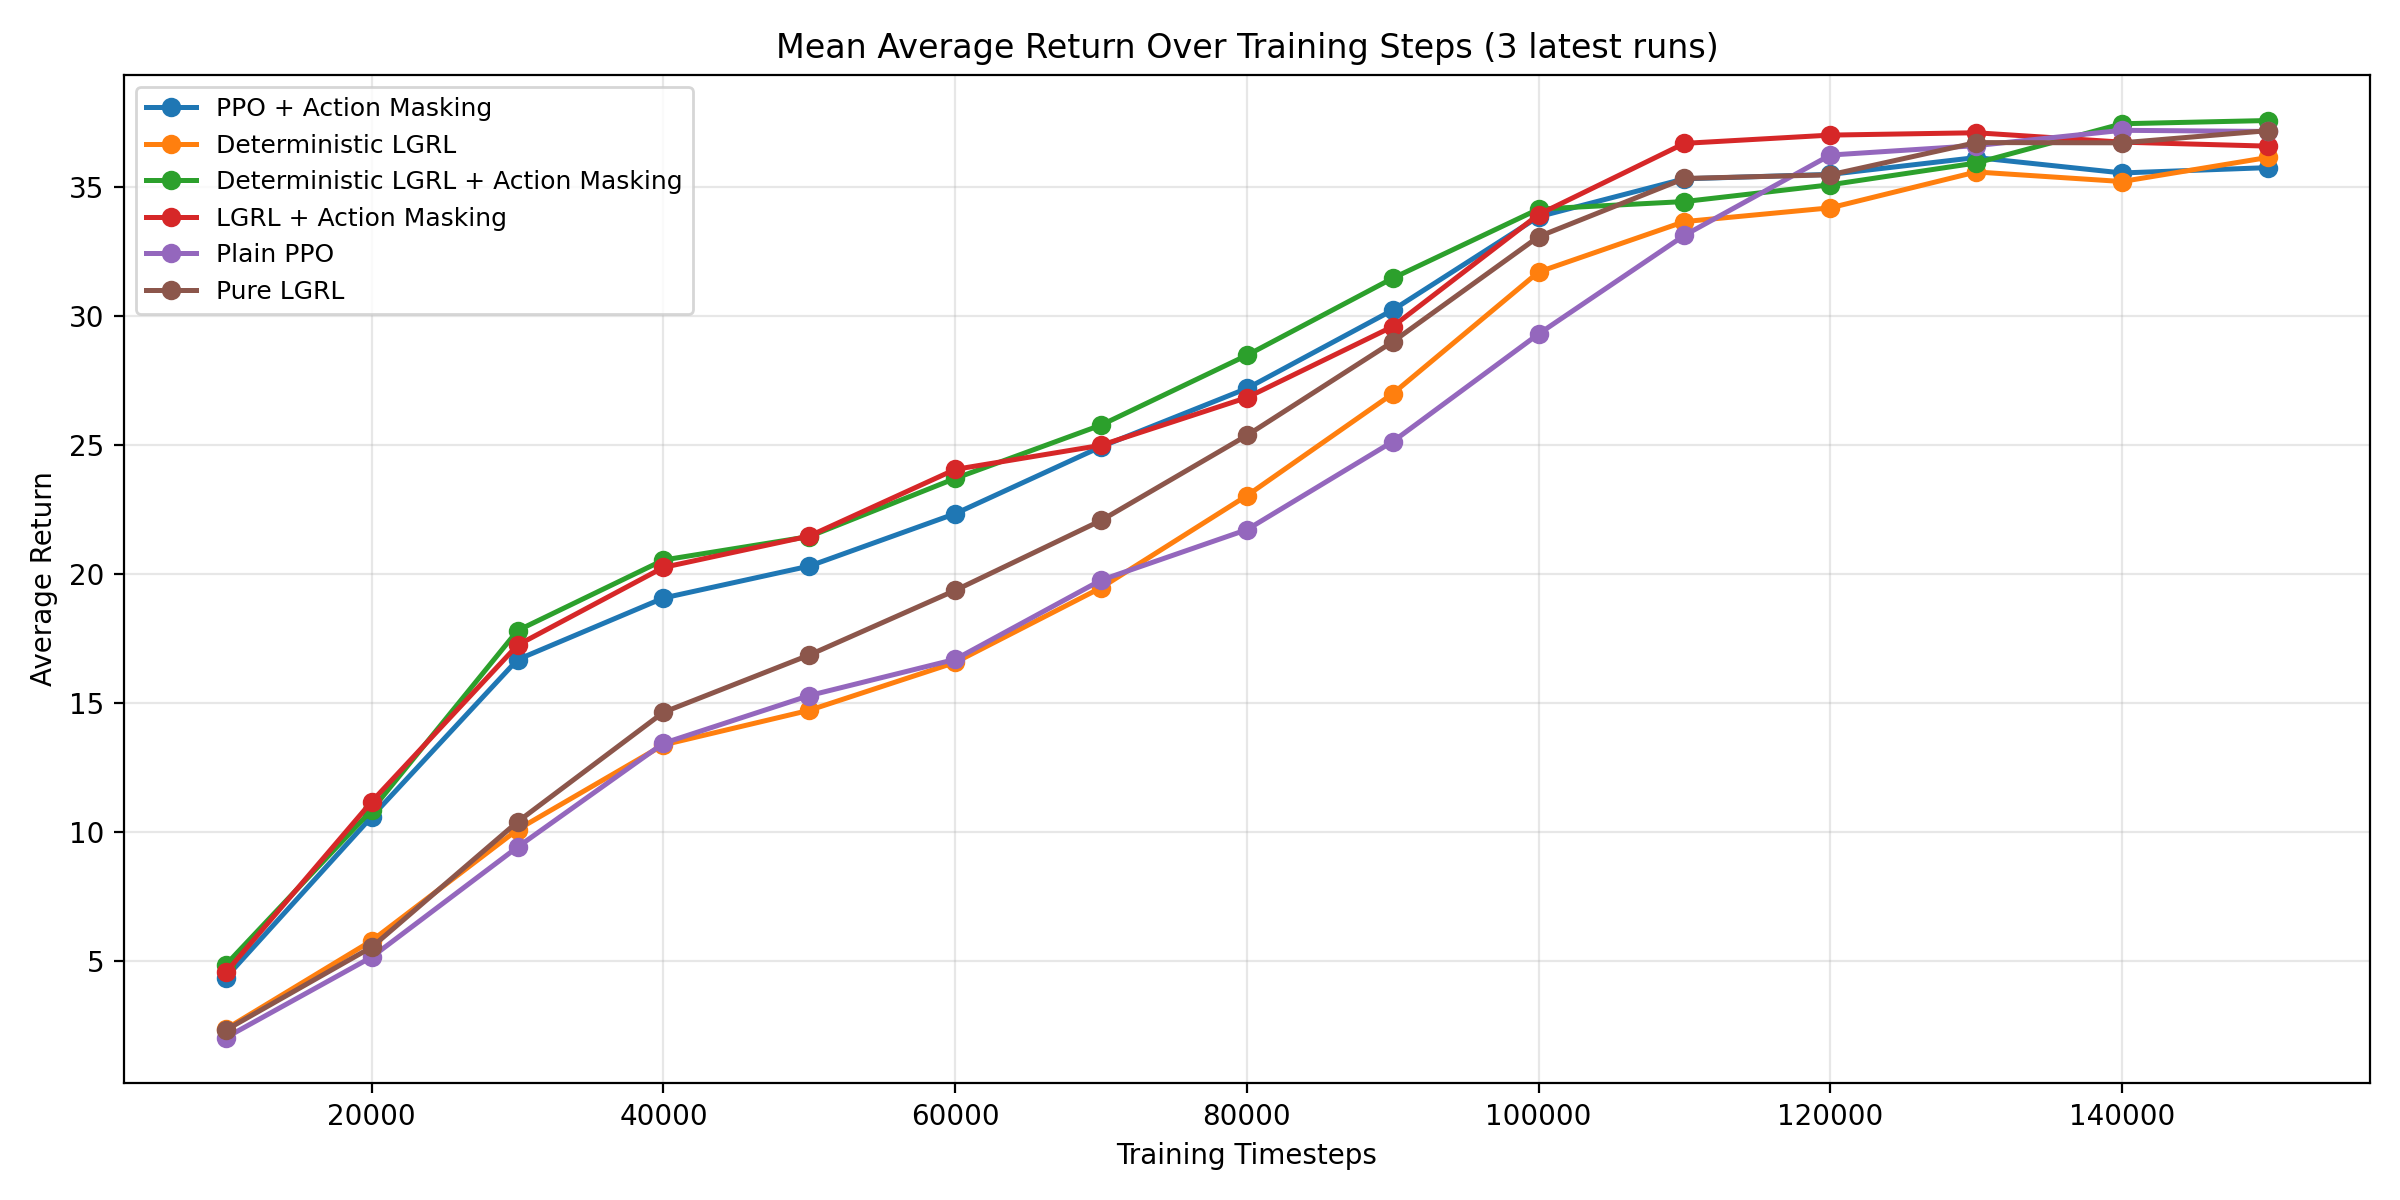
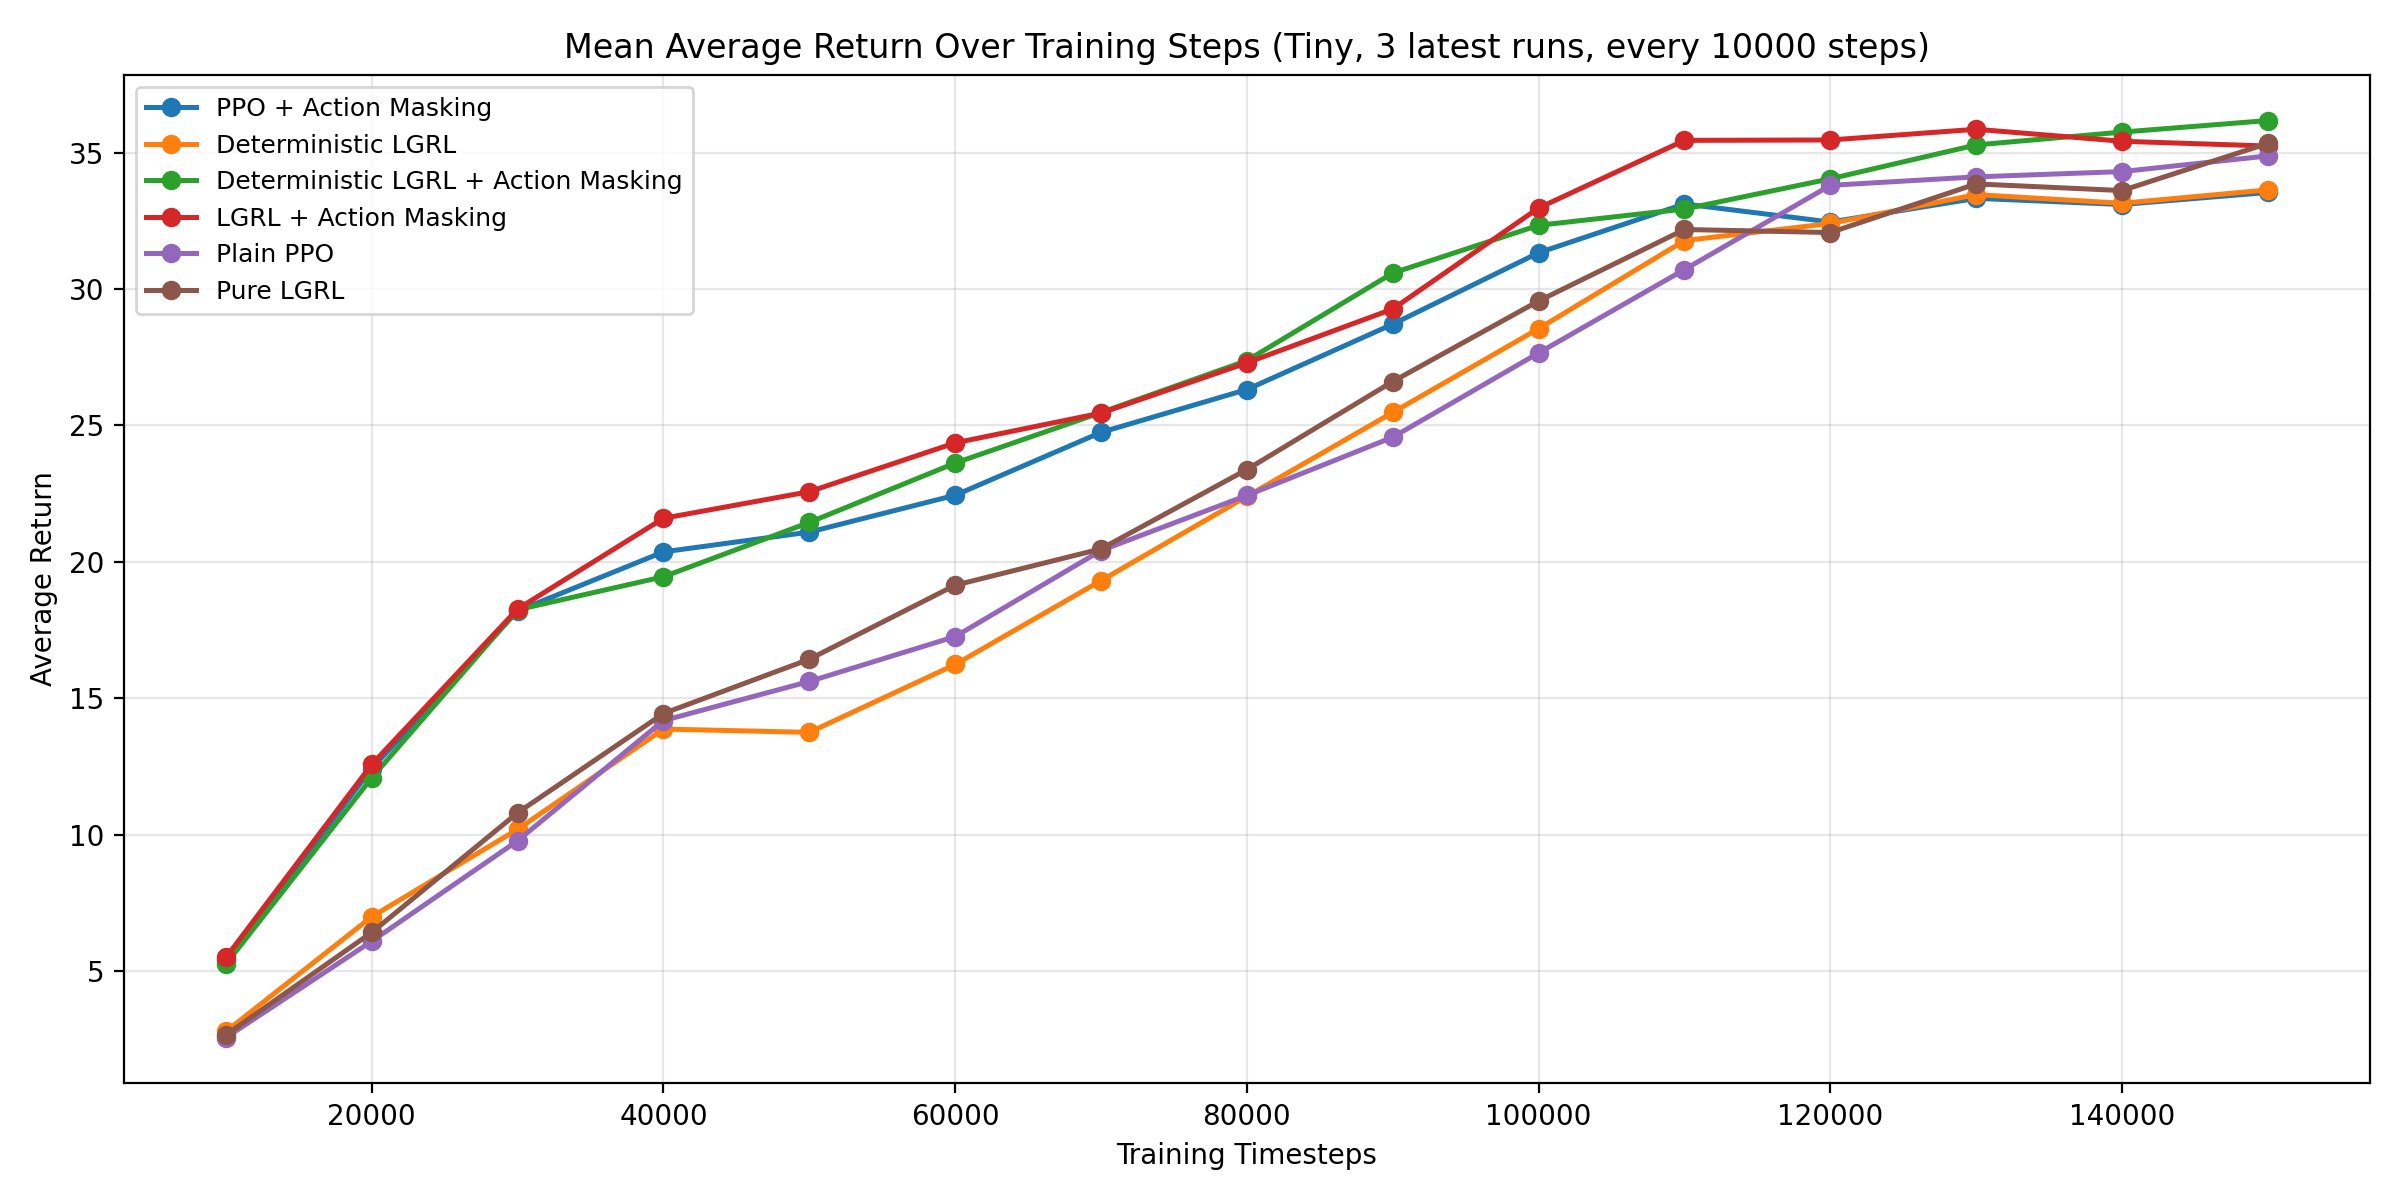
Add plot for ablation

diff --git a/plot_ablation_mean_last3.py b/plot_ablation_mean_last3.py
@@ -22,6 +22,12 @@ CONFIG_ORDER = [
     "LGRL + Action Masking",
 ]
 
+ENVIRONMENTS = [
+    {"prefix": "tiny-gen_2026-", "name": "tiny", "interval_steps": 10000},
+    {"prefix": "small-gen_2026-", "name": "small", "interval_steps": 10000},
+    {"prefix": "medium-gen_2026-", "name": "medium", "interval_steps": 50000},
+]
+
 
 def _load_json(path: Path) -> dict:
     return json.loads(path.read_text(encoding="utf-8"))
@@ -107,12 +113,9 @@ def _aggregate_mean_data(
 
             for row in config.get("reward_history", []):
                 step = int(row.get("training_step", 0))
-                reward_count = int(row.get("reward_count", 0))
                 if step <= 0:
                     continue
                 if step % interval_steps != 0:
-                    continue
-                if reward_count < interval_steps:
                     continue
                 curve_accumulator[config_name][step].append(float(row.get("mean_reward", 0.0)))
 
@@ -193,7 +196,7 @@ def _plot_mean_average_steps(mean_average_steps: Dict[str, float], output_path: 
 
 def main() -> None:
     parser = argparse.ArgumentParser(
-        description="Generate mean learning curve and mean average-steps plots from latest tiny-gen runs.",
+        description="Generate mean learning curve and mean average-steps plots from latest runs for tiny, small, and medium environments.",
     )
     parser.add_argument(
         "--runs-root",
@@ -209,15 +212,10 @@ def main() -> None:
         ),
     )
     parser.add_argument(
-        "--run-prefix",
-        default="tiny-gen_2026-",
-        help="Run directory prefix used to select runs.",
-    )
-    parser.add_argument(
         "--num-runs",
         type=int,
         default=3,
-        help="Number of latest runs to aggregate (default: 3).",
+        help="Number of latest runs to aggregate per environment (default: 3).",
     )
     parser.add_argument(
         "--interval-steps",
@@ -230,11 +228,6 @@ def main() -> None:
         default="models_ablation/generated/images",
         help="Output directory for generated images.",
     )
-    parser.add_argument(
-        "--image-prefix",
-        default="tiny_gen_mean_last3",
-        help="Filename prefix for generated images.",
-    )
     args = parser.parse_args()
 
     repo_root = Path(__file__).resolve().parent
@@ -242,37 +235,49 @@ def main() -> None:
     output_dir = (repo_root / args.output_dir).resolve() if not Path(args.output_dir).is_absolute() else Path(args.output_dir)
     output_dir.mkdir(parents=True, exist_ok=True)
 
-    if args.run_dirs:
-        latest_runs = _parse_explicit_run_dirs(args.run_dirs, repo_root)
-    else:
-        latest_runs = _find_latest_run_dirs(runs_root, args.run_prefix, args.num_runs)
-        if len(latest_runs) < args.num_runs:
-            print(
-                f"Warning: requested {args.num_runs} runs but found {len(latest_runs)} for prefix '{args.run_prefix}'. "
-                "Using available runs."
-            )
-    run_payloads = [_collect_run_data(run_dir) for run_dir in latest_runs]
+    # Process each environment
+    for env_config in ENVIRONMENTS:
+        env_name = env_config["name"]
+        env_prefix = env_config["prefix"]
 
-    mean_curves, mean_average_steps = _aggregate_mean_data(run_payloads, args.interval_steps)
+        if args.run_dirs:
+            latest_runs = _parse_explicit_run_dirs(args.run_dirs, repo_root)
+        else:
+            try:
+                latest_runs = _find_latest_run_dirs(runs_root, env_prefix, args.num_runs)
+            except ValueError as e:
+                print(f"Skipping {env_name}: {e}")
+                continue
+            if len(latest_runs) < args.num_runs:
+                print(
+                    f"Warning ({env_name}): requested {args.num_runs} runs but found {len(latest_runs)} for prefix '{env_prefix}'. "
+                    "Using available runs."
+                )
 
-    curve_out = output_dir / f"{args.image_prefix}_learning_curve.png"
-    as_out = output_dir / f"{args.image_prefix}_average_steps.png"
+        run_payloads = [_collect_run_data(run_dir) for run_dir in latest_runs]
 
-    _plot_mean_learning_curves(
-        mean_curves,
-        curve_out,
-        title=f"Mean Average Return Over Training Steps ({args.num_runs} latest runs)",
-    )
-    _plot_mean_average_steps(
-        mean_average_steps,
-        as_out,
-        title=f"Mean Average Steps by Configuration ({args.num_runs} latest runs)",
-    )
+        interval_steps = env_config["interval_steps"]
+        mean_curves, mean_average_steps = _aggregate_mean_data(run_payloads, interval_steps)
 
-    selected = ", ".join(run.name for run in latest_runs)
-    print(f"Used runs: {selected}")
-    print(f"Saved mean learning curve to: {curve_out}")
-    print(f"Saved mean average steps chart to: {as_out}")
+        curve_out = output_dir / f"{env_name}_gen_mean_last3_learning_curve.png"
+        as_out = output_dir / f"{env_name}_gen_mean_last3_average_steps.png"
+
+        _plot_mean_learning_curves(
+            mean_curves,
+            curve_out,
+            title=f"Mean Average Return Over Training Steps ({env_name.capitalize()}, {args.num_runs} latest runs, every {interval_steps} steps)",
+        )
+        _plot_mean_average_steps(
+            mean_average_steps,
+            as_out,
+            title=f"Mean Average Steps by Configuration ({env_name.capitalize()}, {args.num_runs} latest runs)",
+        )
+
+        selected = ", ".join(run.name for run in latest_runs)
+        print(f"{env_name.upper()}: Used runs: {selected}")
+        print(f"{env_name.upper()}: Saved mean learning curve to: {curve_out}")
+        print(f"{env_name.upper()}: Saved mean average steps chart to: {as_out}")
+        print()
 
 
 if __name__ == "__main__":
